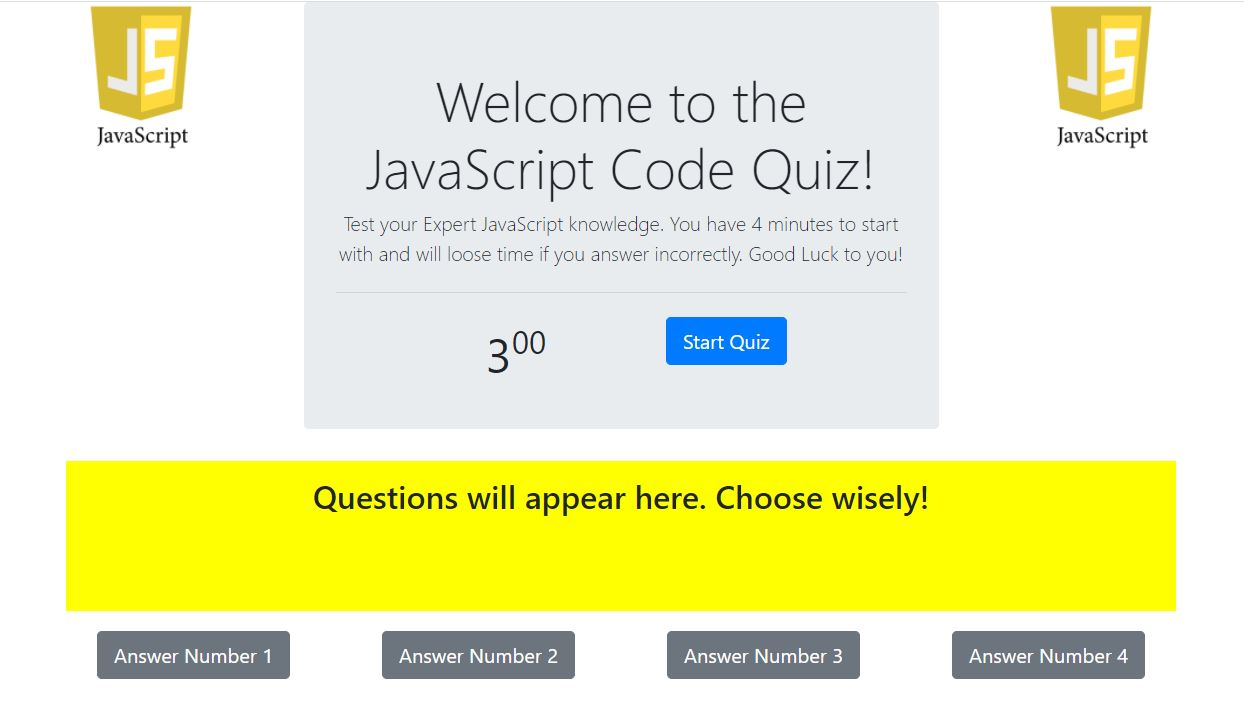
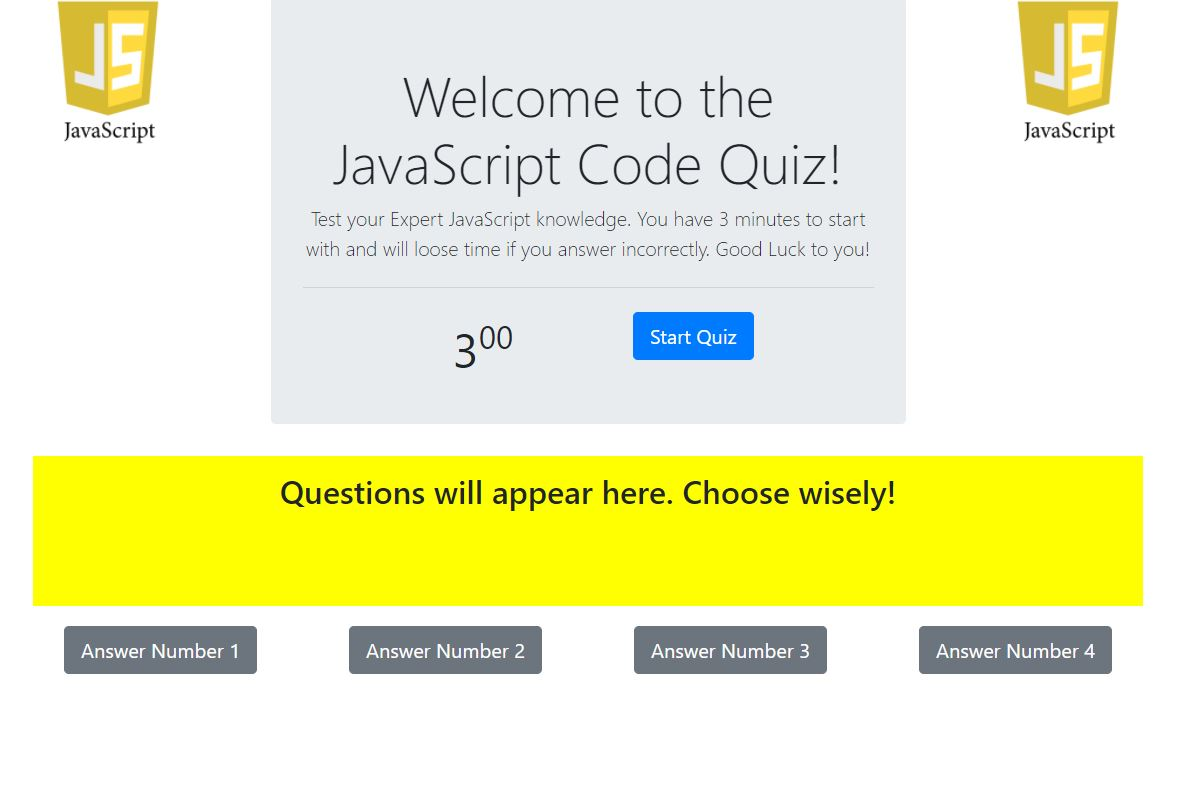
Readme updates and improvements.

diff --git a/index.html b/index.html
@@ -18,10 +18,10 @@
             <div class="col-7">
                 <div class="jumbotron">
                     <h1 class="display-4" class="d-flex justify-content-center">Welcome to the JavaScript Code Quiz!</h1>
-                    <p class="lead">Test your Expert JavaScript knowledge. You have 4 minutes to start with and will loose time if you answer incorrectly. Good Luck to you!</p>
+                    <p class="lead">Test your Expert JavaScript knowledge. You have 3 minutes to start with and will loose time if you answer incorrectly. Good Luck to you!</p>
                     <hr class="my-4">
 
-                    <!--Timer code below-->
+                    <!--Timer/Clock countdown display below-->
                     <div class="container">
                         <div class="timer">
                             <div id="hand">
@@ -50,9 +50,8 @@
             </div>
         </div>
 
-        <!--This row is more of a spacer and is left blank on purpose or for future use if necessary-->
+        <!--This row is hidden to start with and will appear when the quiz is done to ask the user for their name-->
         <div class="row" style="margin: 10px;">
-            <!-- <div style="height: 50px; background-color: white;"> -->
             <div class="input-group userInput">
                 <input type="text" class="form-control" id="userInitials">
                 <button class="btn btn-success" id="saveBtn">Save Your Score Here</button>

diff --git a/Assets/style.css b/Assets/style.css
@@ -1,22 +1,7 @@
-/* .timer {
-    height: 300px;
-    width: 300px;
-    margin: 0 auto;
-    background-color: tomato;
-    border-radius: 50%;
-    position: relative;
-  } */
-
 .time {
   width: 100%;
   text-align: center;
 }
-
-/* .time::after {
-    content: " ";
-    display: block;
-    clear: both;
-} */
 
 #minutes {
   font-size: 3rem;
